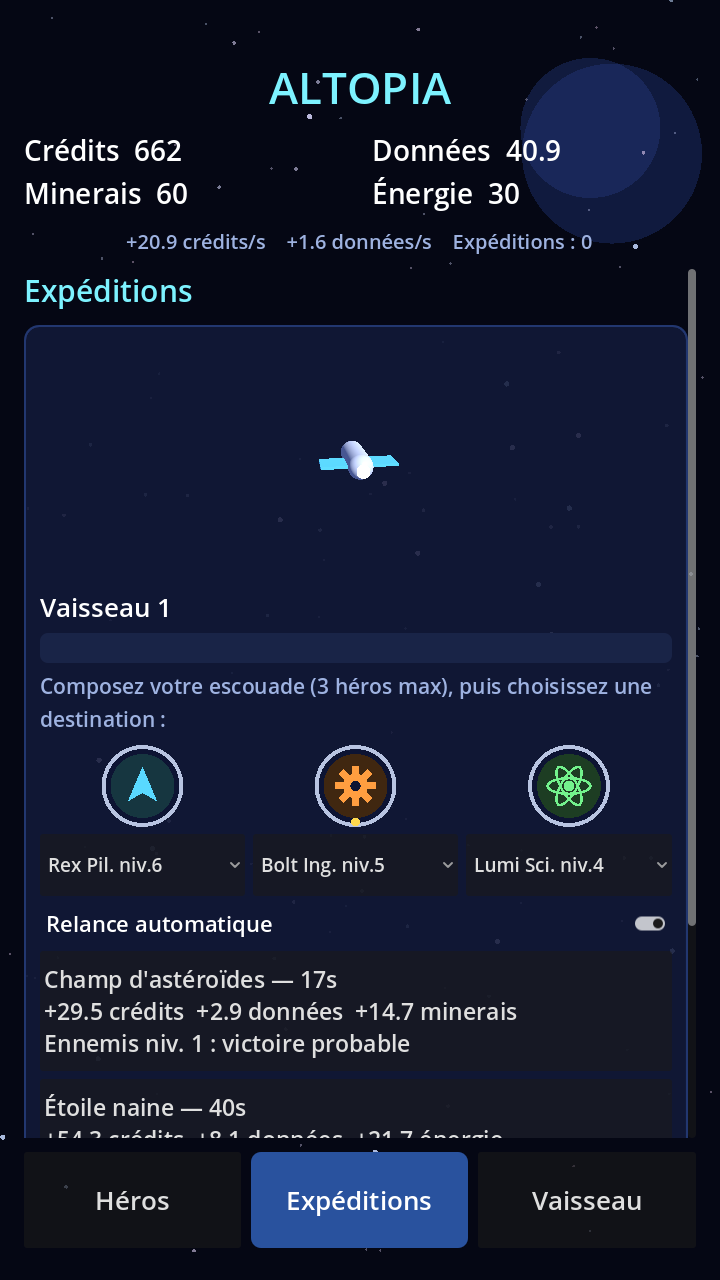
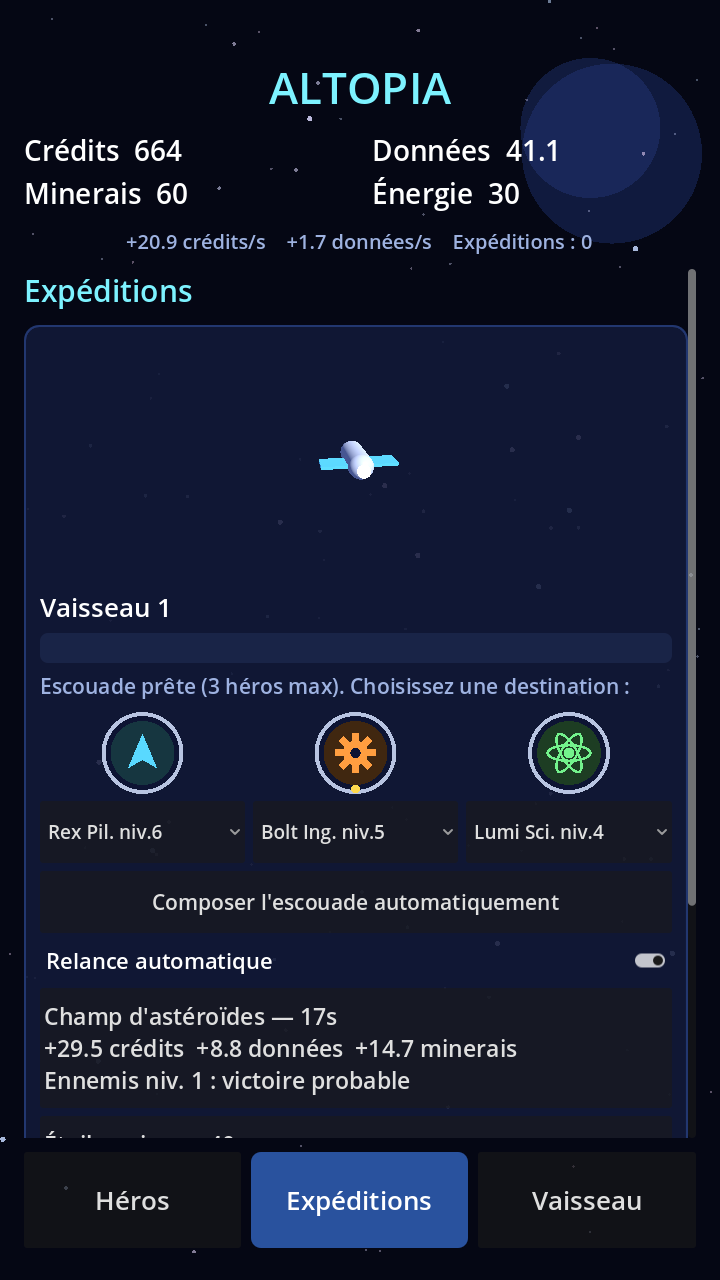
Corrige le défilement tactile et le blocage des expéditions
- Défilement au doigt : cartes, portraits, barres et scène 3D laissent passer le geste ;
  les boutons ignorent le relâchement après un glissement (pas d'achat accidentel)
- Escouade composée automatiquement (nouvelle partie, recrutement, bouton dédié)
- Données : capteurs de bord (0,1/s) et gains d'expédition augmentés
- Test tactile automatisé (tools/touch_test.gd) + 3 tests unitaires

Claude-Session: https://claude.ai/code/session_0142Jyo9JqwzA1QeKtk2pHDW

diff --git a/docs/V1.md b/docs/V1.md
@@ -38,9 +38,13 @@ dans un **jeu idle/AFK d'exploration spatiale** (expéditions, ressources, amél
 ## Exploration
 | Destination | Classe | Durée | Ennemis | Gains de base | Déblocage |
 |---|---|---|---|---|---|
-| Champ d'astéroïdes | Pilote | 20 s | 2 Foreurs rebelles | 5 minerais, 10 crédits, 1 donnée | départ |
-| Étoile naine | Ingénieur | 45 s | 2 Sentinelles solaires | 8 énergie, 20 crédits, 3 données | 25 données |
-| Planète inconnue | Scientifique | 90 s | 3 Créatures xéno | 12 données, 60 crédits, 3 minerais, 2 énergie | 100 données |
+| Champ d'astéroïdes | Pilote | 20 s | 2 Foreurs rebelles | 5 minerais, 10 crédits, 3 données | départ |
+| Étoile naine | Ingénieur | 45 s | 2 Sentinelles solaires | 8 énergie, 20 crédits, 6 données | 25 données |
+| Planète inconnue | Scientifique | 90 s | 3 Créatures xéno | 16 données, 60 crédits, 3 minerais, 2 énergie | 100 données |
+
+**Données** : les capteurs de bord en produisent 0,1/s en continu, les Scientifiques davantage, et chaque
+expédition en rapporte. L'escouade est composée automatiquement au départ et à chaque recrutement
+(bouton « Composer l'escouade automatiquement » pour la refaire).
 
 ## Vaisseau (améliorations)
 Laser (+minerais), Collecteur solaire (+énergie), Scanner (+données), Moteurs (−durée),
@@ -57,6 +61,8 @@ Baie d'amarrage (2ᵉ vaisseau, donc 2ᵉ escouade).
 | Héros | Expéditions (repos) | Planète | Astéroïdes | Vaisseau |
 |---|---|---|---|---|
 | ![](screens/heroes.png) | ![](screens/expeditions_idle.png) | ![](screens/expedition_planete.png) | ![](screens/expedition_asteroides.png) | ![](screens/vaisseau.png) |
+
+Tester le défilement/les taps tactiles : `xvfb-run -a godot --path . --resolution 720x1280 -s tools/touch_test.gd`.
 
 Régénérer : `xvfb-run -a godot --path . --resolution 720x1280 -s tools/screenshot.gd -- docs/screens`
 (produit `shot_*.png`).
